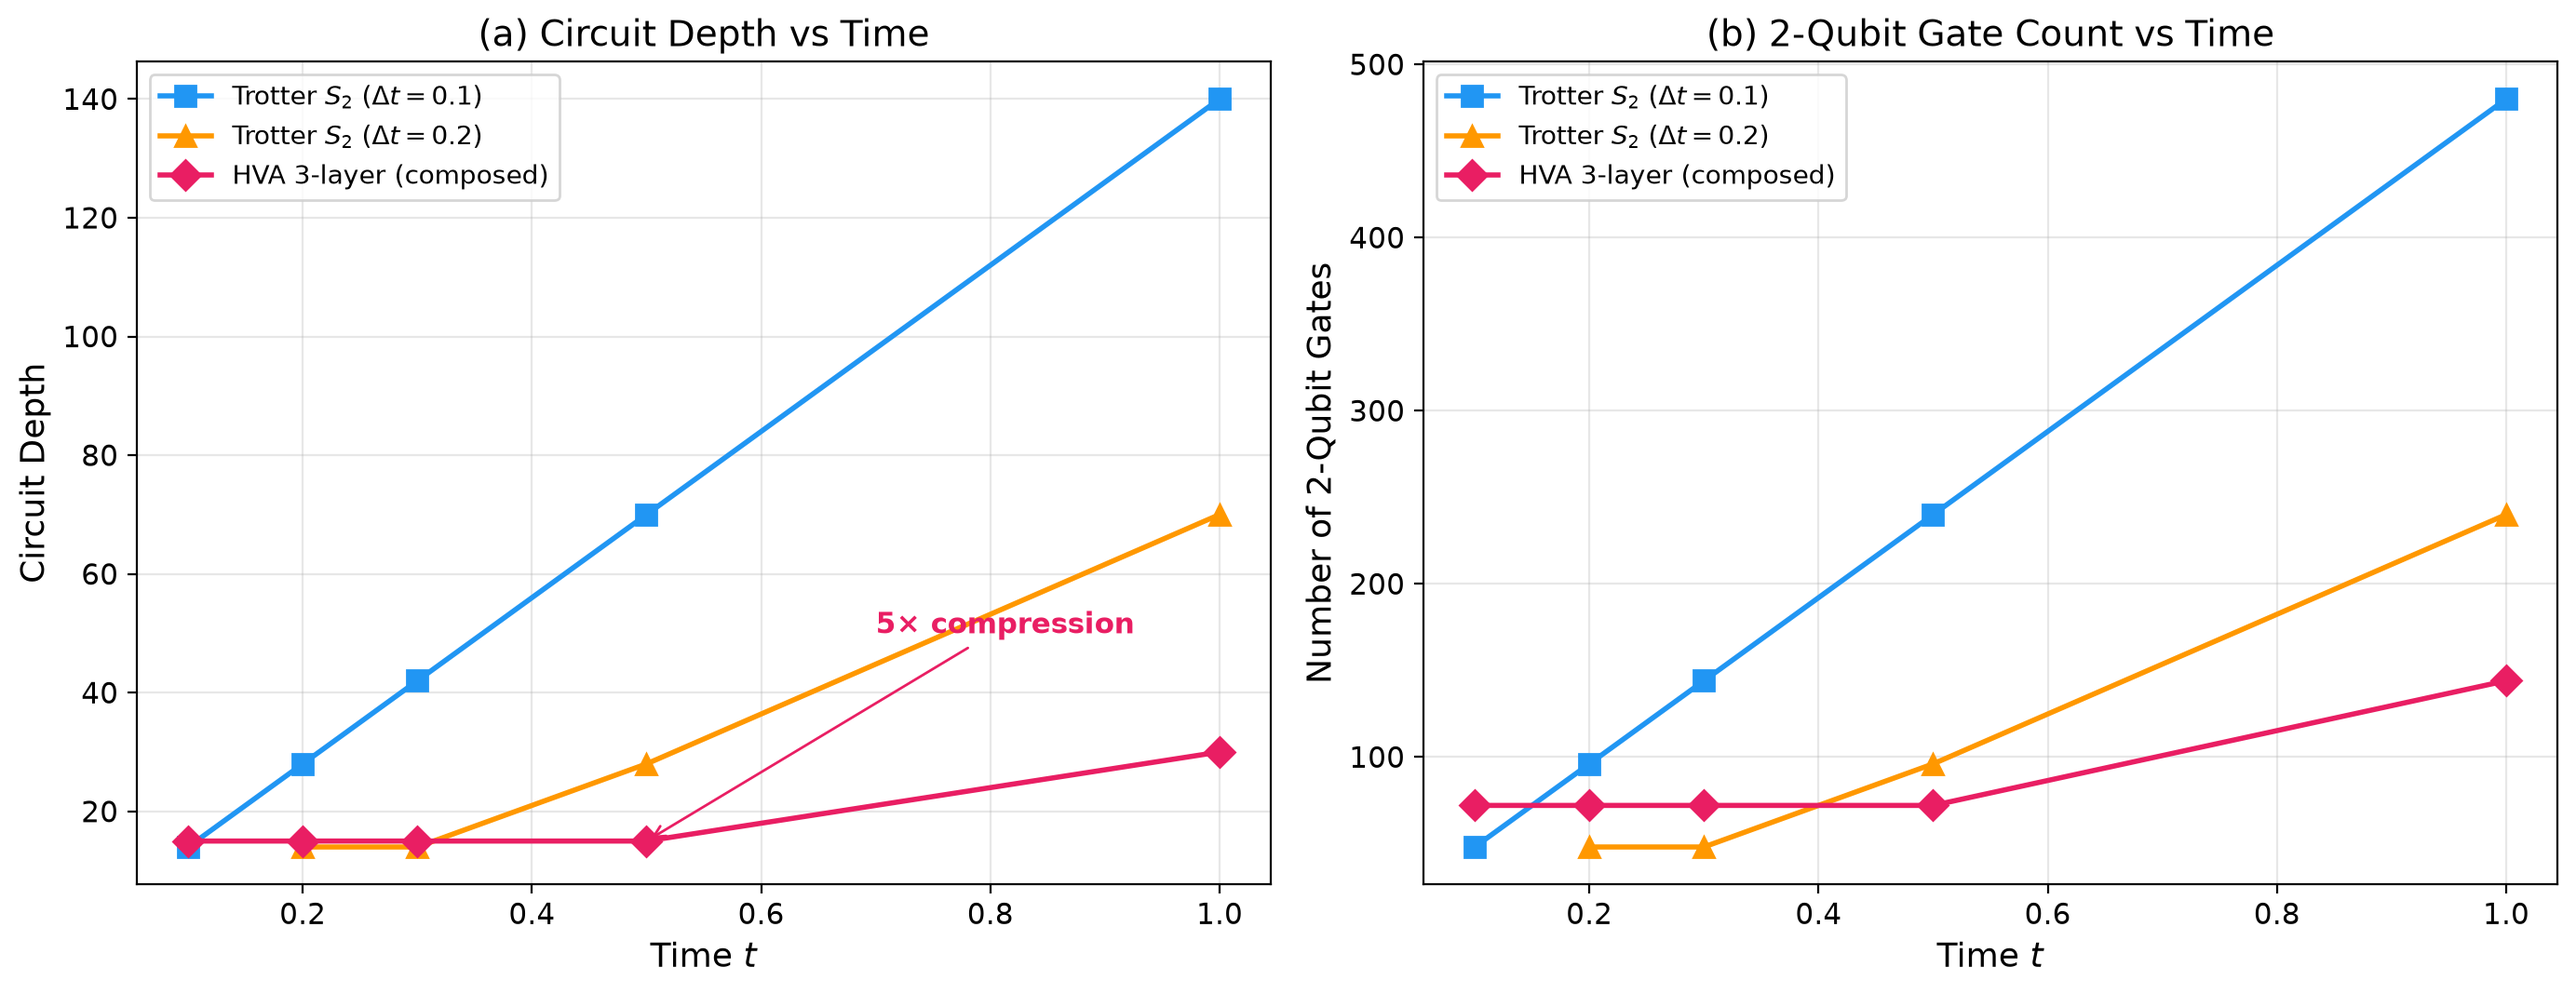
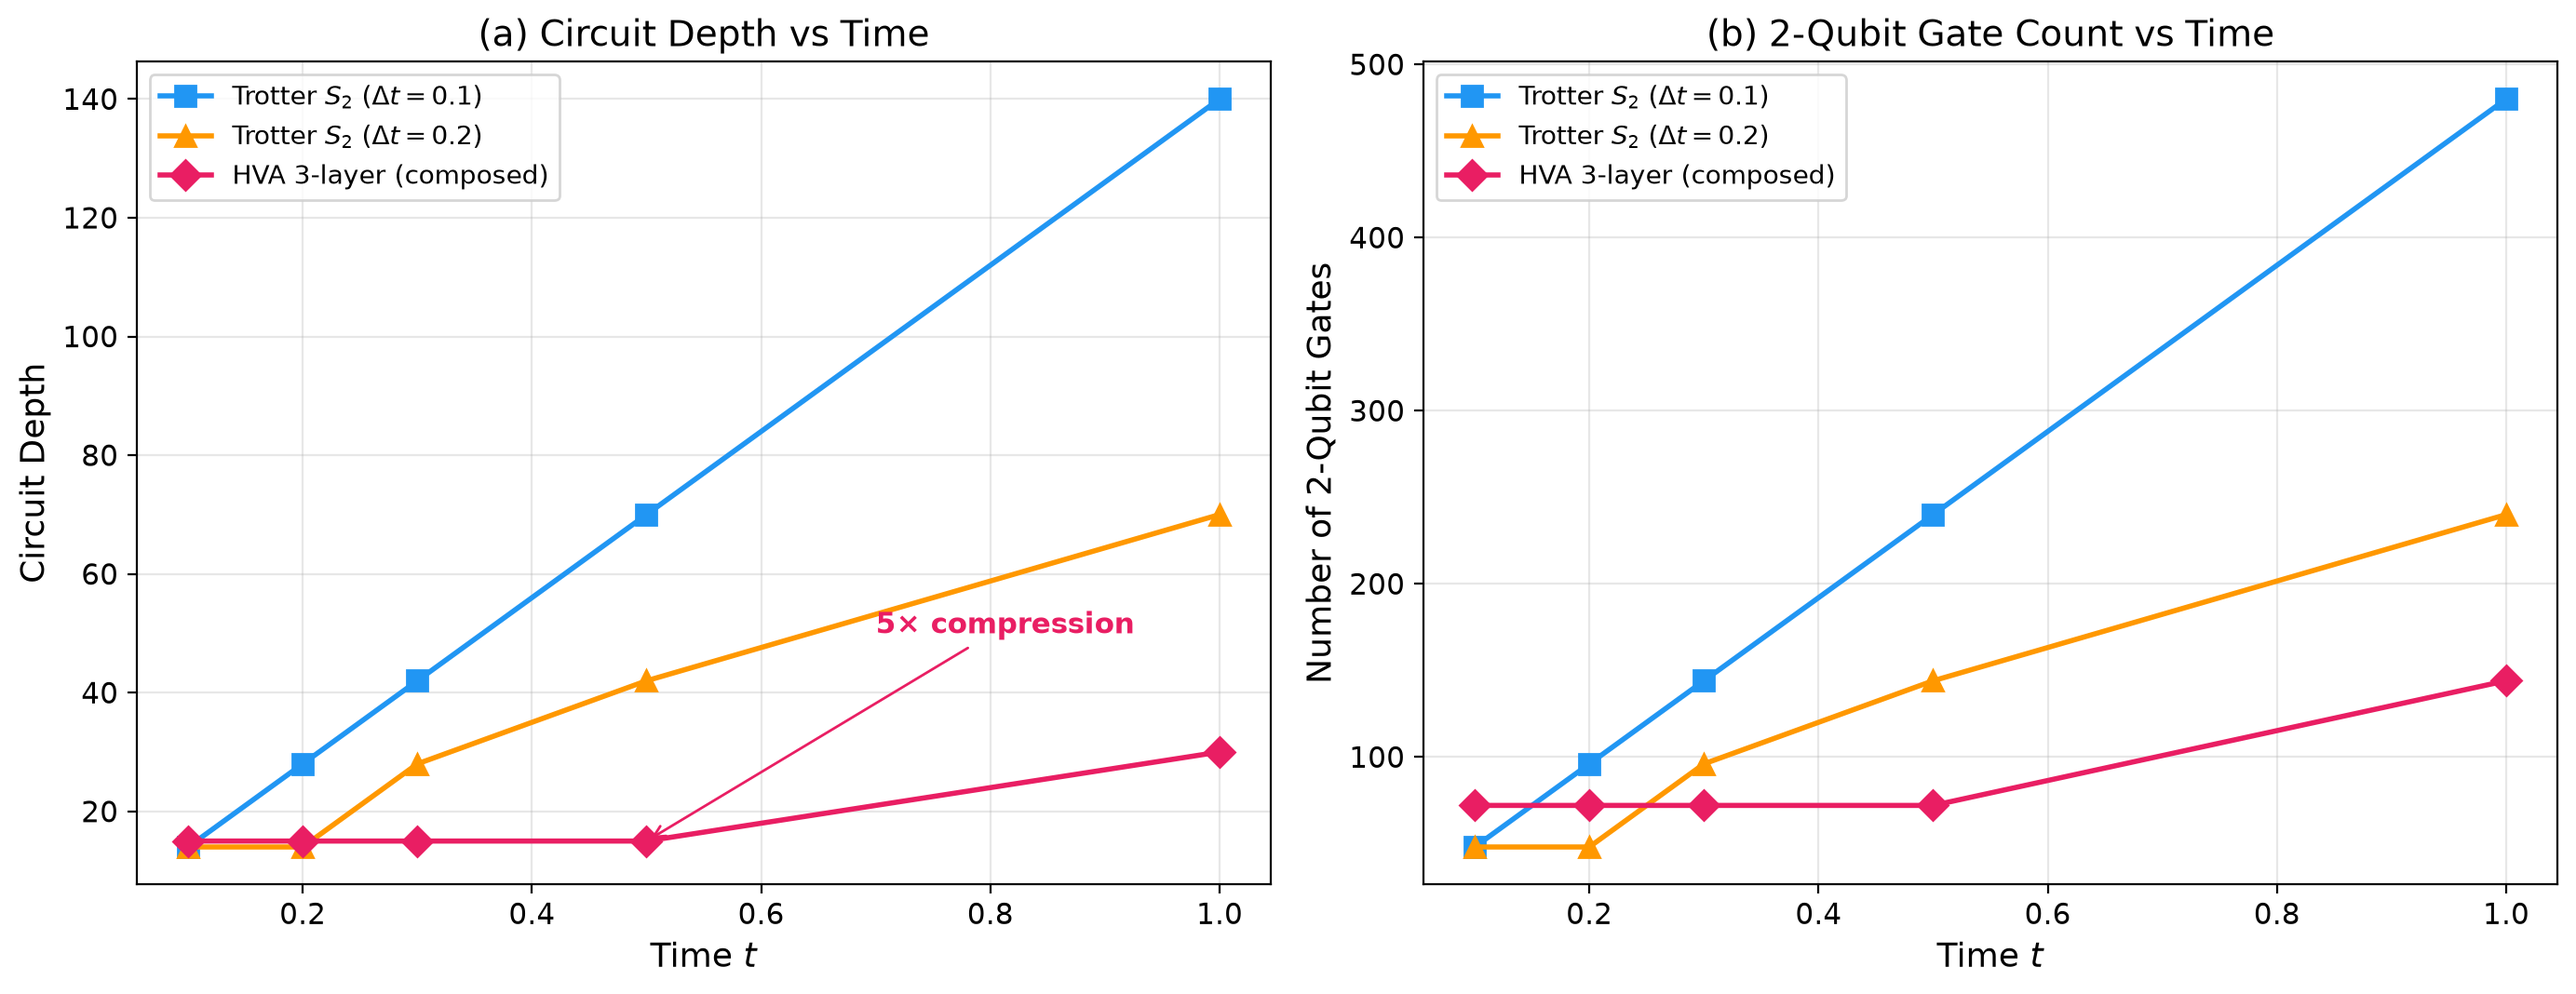
docs: use the exact-T composition table for the T1 compression ratio
The compression claim quoted trotter_results.json's dt=0.2, t=0.5 entry
(F=0.850) as evidence that Trotter collapses when squeezed to HVA's gate
count. That number is a step-rounding artifact -- two dt=0.2 steps land on
t=0.4, not t=0.5 -- not a Trotter failure. Replaced with the
composition_fidelity.json table, which evaluates every circuit at exactly the
same T, and noted the artifact so it is not quoted again. The honest reading
is a constant 2.8-4.7x depth advantage at every T, not a collapse.

diff --git a/scripts/plot_results.py b/scripts/plot_results.py
@@ -197,7 +197,11 @@ def plot_fidelity():
     ax1.set_ylabel('Fidelity $|\\langle\\psi_{\\rm approx}|\\psi_{\\rm exact}\\rangle|^2$')
     ax1.set_title('(a) State Fidelity vs Time')
     ax1.legend(fontsize=9, loc='lower left')
-    ax1.set_ylim(0.78, 1.005)
+    # Data-driven: every curve now sits close to 1, so a fixed floor would waste
+    # most of the axis. (It used to need one because the dt=0.2 curve dipped to
+    # 0.80 on a time-rounding artefact - see TrotterCircuit.num_steps.)
+    lo = min(min(y01), min(y02), min(yh))
+    ax1.set_ylim(lo - 0.15 * (1 - lo), 1 + 0.03 * (1 - lo))
     ax1.grid(True, alpha=0.3)
 
     # --- Panel (b): 1 - Fidelity (infidelity, log scale) ---

diff --git a/docs/issues/01-scale-plan.md b/docs/issues/01-scale-plan.md
@@ -39,16 +39,29 @@
   합성은 깊이가 `T` 에 선형이라 Trotter와 같은 스케일링입니다. 직접 훈련이
   선형보다 느리게 늘면 그게 진짜 결과입니다.
 
-### T1 의 압축 비율 (T=0.5)
+### T1 의 압축 비율
 
-| 회로 | 2Q 게이트 | 깊이 | fidelity |
-|:--|:--|:--|:--|
-| HVA 3층 | **72** | **17** | 0.99918 |
-| Trotter dt=0.2 | 96 | 28 | 0.85029 |
-| Trotter dt=0.1 | 240 | 70 | 0.99984 |
+`composition_fidelity.json` (수정 후 재실행) 이 모든 회로를 **정확히 같은 `T`**
+에서 비교하므로 이쪽을 씁니다.
 
-같은 정확도대(≈0.999)에서 240 → 72, **3.3배 압축**입니다. Trotter를 72에 가까운
-96까지 줄이면 fidelity가 0.85로 무너집니다.
+| T | 0.5 | 1.0 | 1.5 | 2.0 | 2.5 |
+|:--|:--|:--|:--|:--|:--|
+| HVA fidelity | 0.99918 | 0.99754 | 0.99563 | 0.99365 | 0.99176 |
+| HVA 깊이 | **15** | **30** | **45** | **60** | **75** |
+| Trotter dt=0.1 fidelity | 0.99984 | 0.99978 | 0.99964 | 0.99946 | 0.99925 |
+| Trotter dt=0.1 깊이 | 70 | 140 | 210 | 280 | 350 |
+| Trotter dt=0.2 fidelity | 0.99869 | 0.99628 | 0.99535 | 0.99095 | 0.98924 |
+| Trotter dt=0.2 깊이 | 42 | 70 | 112 | 140 | 168 |
+
+`dt=0.1` 이 fidelity 는 더 높지만 깊이가 **4.7배**입니다. `dt=0.2` 는 HVA 보다
+fidelity 가 낮으면서도 깊이가 **2.8배**입니다. 즉 깊이 우위는 실재하지만
+**모든 `T` 에서 같은 배율** — 상수배이지 스케일링 우위가 아닙니다. 합성 경로의
+깊이가 `T` 에 선형이니 당연한 결과입니다.
+
+> 주의: `trotter_results.json` 의 `dt=0.2, t=0.5` 항목은 fidelity 0.850 으로
+> 훨씬 나쁘게 보이는데, 이건 Trotter 가 무너진 것이 아니라 2스텝이 `t=0.4` 에
+> 해당하는 **스텝 반올림 artifact** 입니다. 압축 비율을 인용할 때 이 숫자를
+> 쓰면 안 됩니다.
 
 ## 타겟 생성의 벽 — `T` 를 키우면 훈련 데이터를 못 만듭니다
 
